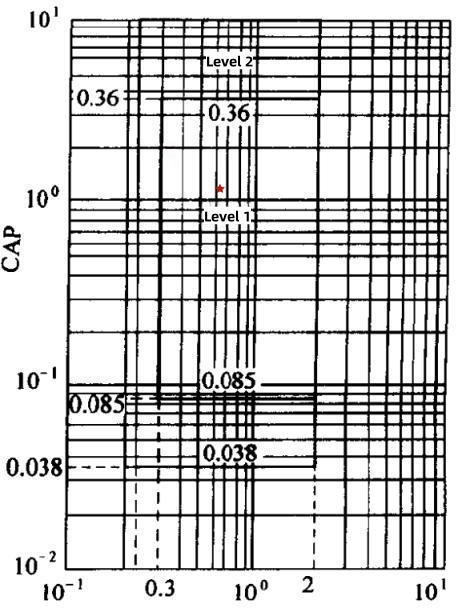
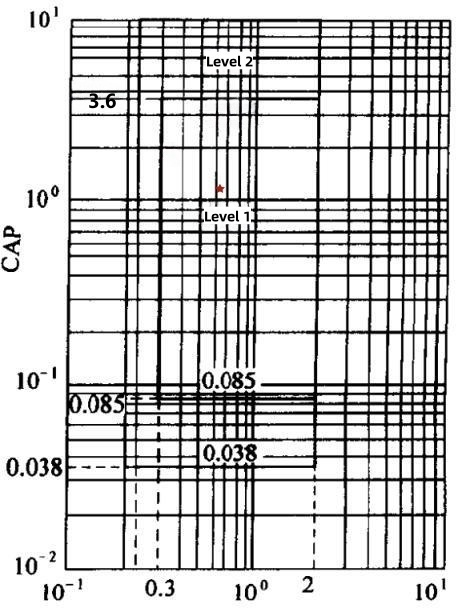
Update README.md and img file

Changed region(s): [[0.1477, 0.1242, 0.2658, 0.1863], [0.443, 0.1552, 0.5612, 0.2173]]

diff --git a/README.md b/README.md
@@ -234,13 +234,13 @@ The gain margin is $27.9 dB$, and the phase margin is $87.5°$
 
 ### Flight Quality Analysis
 
-(1) $CAP$ Index
+(1) $\zeta_{sp}$ and $CAP$ Index
 
 With $K_a = 0.35, K_{ff} = 0.03$, the closed-loop transfer function is determined to be:<br>
 
 $G_{cl}(s) = \frac{45.03s^3 + 192.6s^2 + 206.1s + 58.51}{s^5 + 16.03s^4 + 80.14s^3 + 225.8s^2 + 218.2s + 58.54}$<br>
 
-This results in a natural frequency for the short-period mode of $\omega_{n, sp} = 3.67$ and a damping ratio of $\zeta_{n, sp} = 0.61$<br>
+This results in a natural frequency for the short-period mode of $\omega_{n, sp} = 3.67$ and a damping ratio of $\zeta_{sp} = 0.61$<br>
 
 The Control Anticipation Parameter ($CAP$) is calculated as:<br>
 
@@ -250,7 +250,7 @@ This study primarily focuses on the control during the cruising phase of the air
 
 ![alt](/img/CAP_CATB.jpg)
 
-It can be observed that the aircraft meets Level 1 flight quality requirements during the cruising phase<br>
+It can be observed that the aircraft meets Level 1 flight quality requirements during the cruising phase (Moreover, the designed control system can also meet Level 1 flight quality under Type C flight phase)<br>
 
 (2) $C^*$ Index
 
